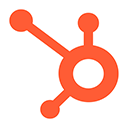
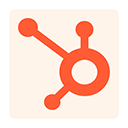
feat: refine popup styling and update assets
- Adjusted tab border styling and section spacing
- Added margin-top to section titles for better visual hierarchy
- Updated link-tab padding for improved alignment
- Enhanced assets with updated icons and logo

🤖 Generated with [Claude Code](https://claude.ai/code)

Changed region(s): [[0.0625, 0.0625, 0.9375, 0.9375], [0.9062, 0.0938, 0.9375, 0.125], [0.0938, 0.9062, 0.125, 0.9375]]

diff --git a/src/css/popup.css b/src/css/popup.css
@@ -37,8 +37,8 @@ body {
 .tabs {
   display: flex;
   gap: 12px;
-  border-bottom: 2px solid var(--light);
-  padding-bottom: 16px;
+  border-bottom: 1px solid var(--border);
+  padding-bottom: 8px;
   position: relative;
 }
 
@@ -125,13 +125,14 @@ h4.section-title {
   line-height: normal;
   margin: 0;
   margin-bottom: 24px;
+  margin-top: 4px;
 }
 /* Remove background images for cleaner design */
 
 .section {
   display: flex;
   flex-direction: column;
-  gap: 12px;
+  gap: 16px;
   padding: 0;
   border-radius: 0;
   margin-bottom: 24px;
@@ -154,8 +155,8 @@ a.link-tab {
   text-decoration: none;
   transition: all 0.3s ease;
   font-size: 18px;
-  font-style: normal;
   font-weight: 500;
+  padding-left: 16px;
 }
 
 a.link-tab:hover,
@@ -261,7 +262,6 @@ a.link-tab:focus {
   color: var(--primary);
   font-size: 14px;
   text-align: center;
-  margin-top: 12px;
   background: #FF5C3533;
   border-radius: 34px;
   padding-top: 10px;
